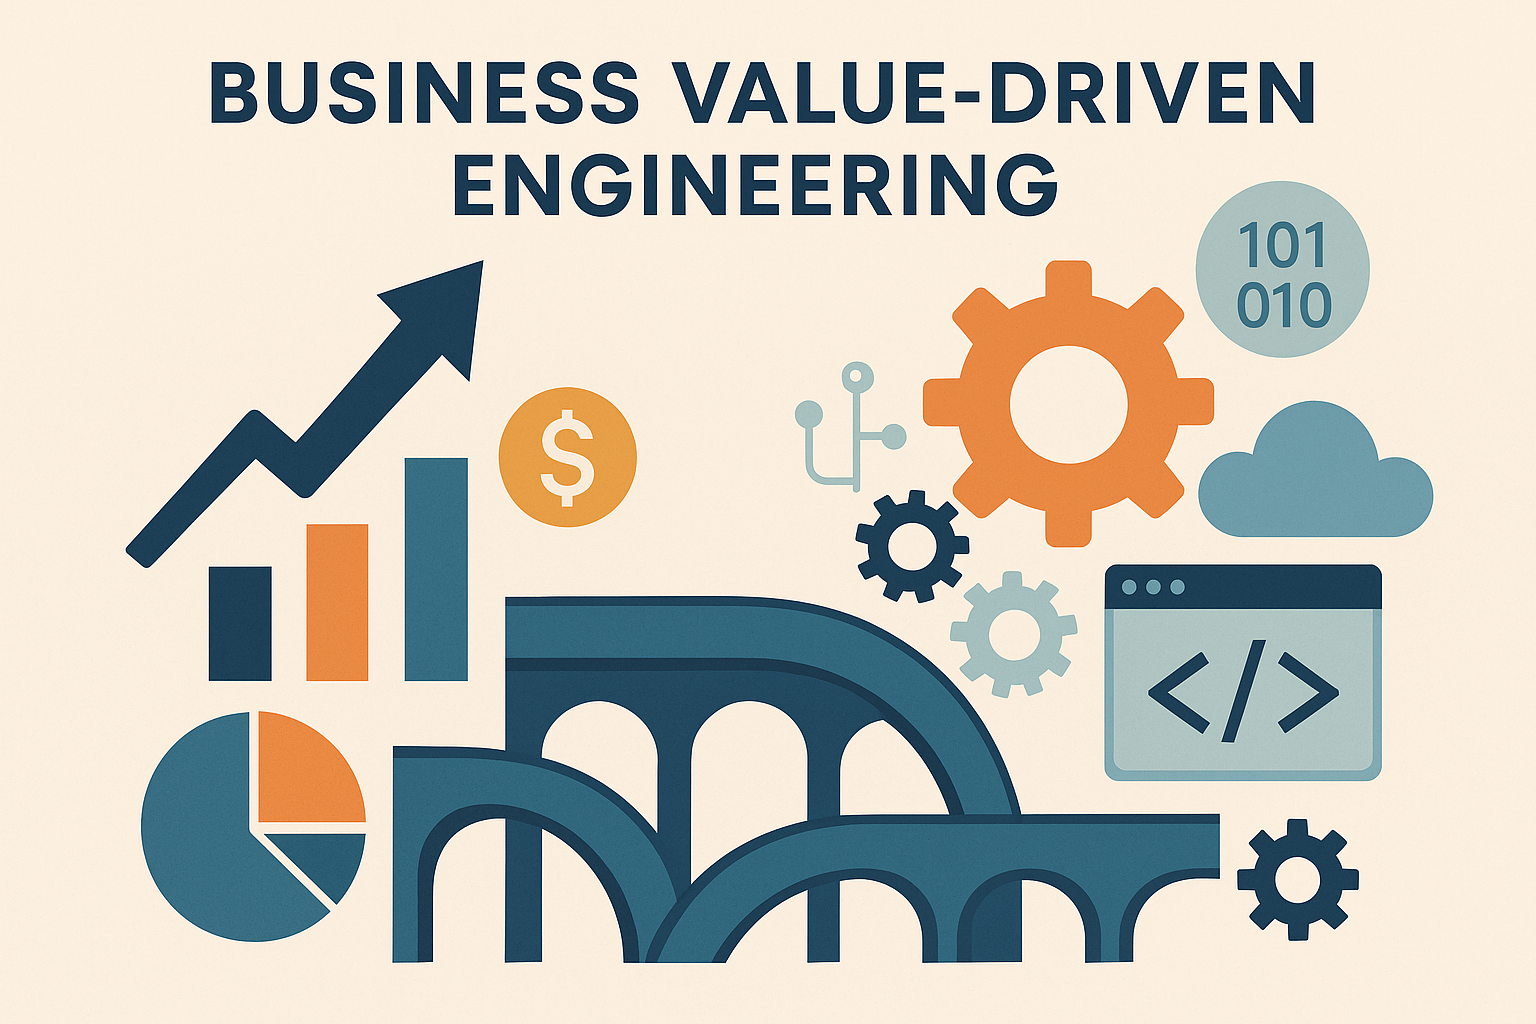
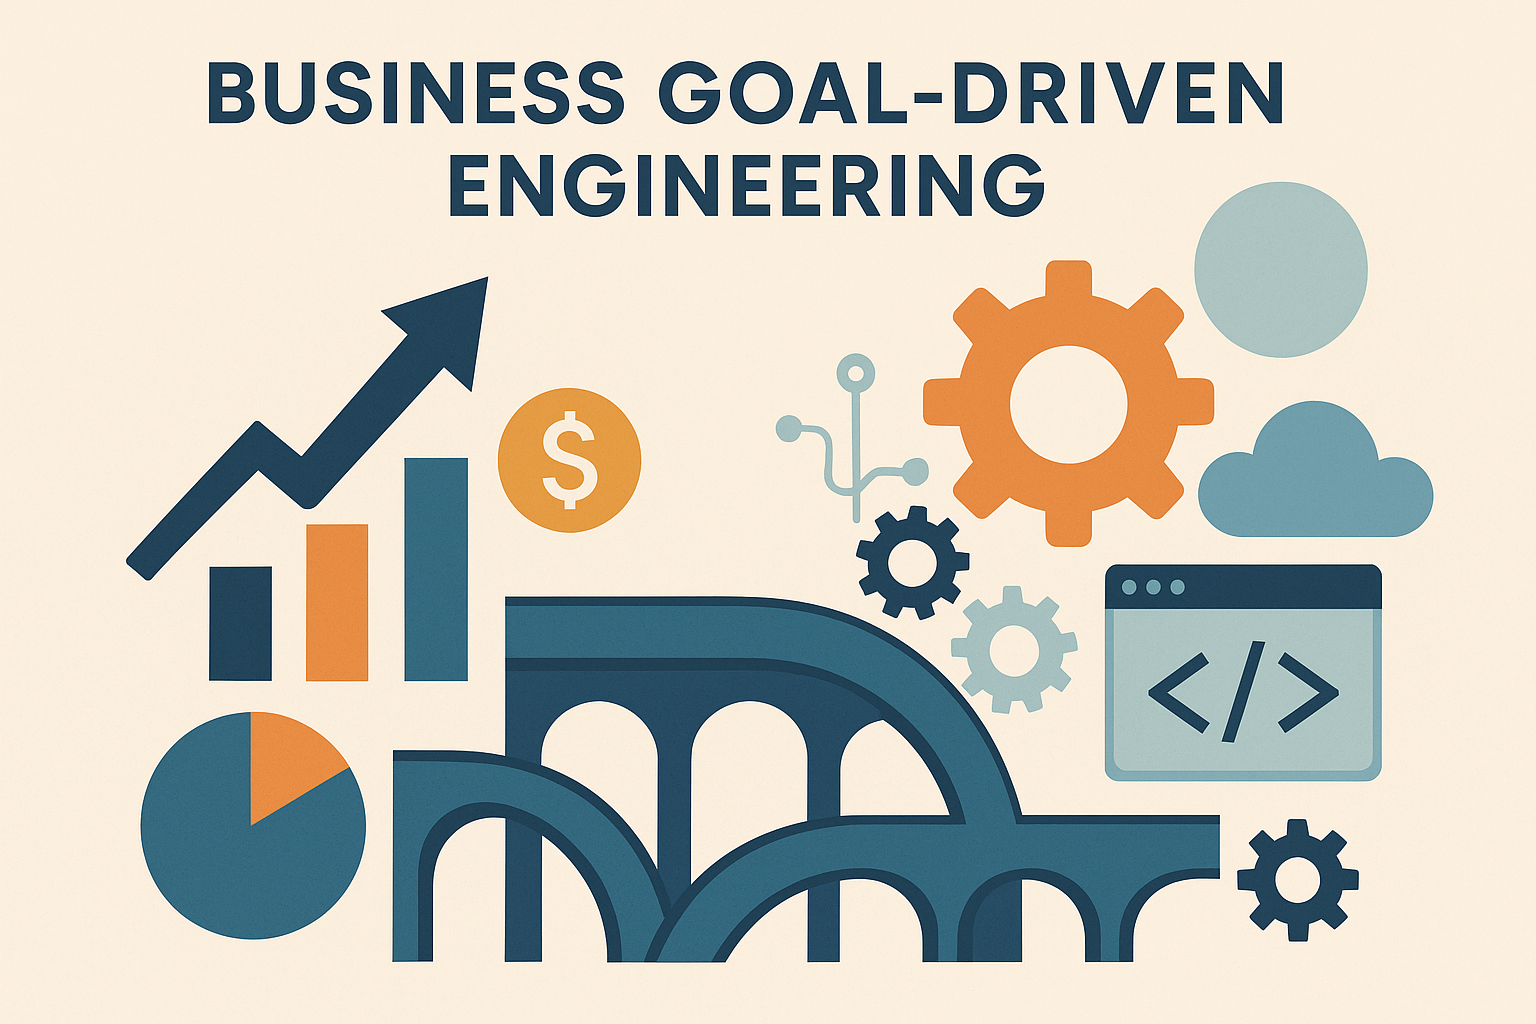
update blogpost with context

diff --git a/content/posts/value-driven-engineering.md b/content/posts/value-driven-engineering.md
@@ -1,6 +1,6 @@
 ---
 date: '2025-06-23T10:16:44+02:00'
-title: 'Value Driven (Agile) Software Engineering'
+title: 'Business Goal (Agile) Software Engineering'
 ---
 In the agile universe, we constantly translate business needs into actionable work. Traditionally, this process unfolds through a clear hierarchy: Epics break down into Spikes, Spikes further unfold into Stories and (Sub-)Tasks. Each step refines abstraction into tangible work packages, providing engineering teams clarity and structure. Yet, solely relying on Epics and Stories to articulate business intent carries inherent limitations, often leaving gaps between technical teams and stakeholders.
 
@@ -16,5 +16,6 @@ Practically, agile and scrum metrics remain untouched, maintaining their critica
 
 In essence, by integrating clearly defined goals that strategically stretch and target specific stories and tasks within Epics, agile teams move beyond mere task management. They establish a powerful ecosystem where strategic clarity meets engineering precision, driving both innovative excellence and measurable business success.
 
+This way of working works well in R&D oriented organisations, where direct client feedback is not present for every LoC that needs to be generated.
 
 ![Value Engineering](/images/value-engineering.png)
